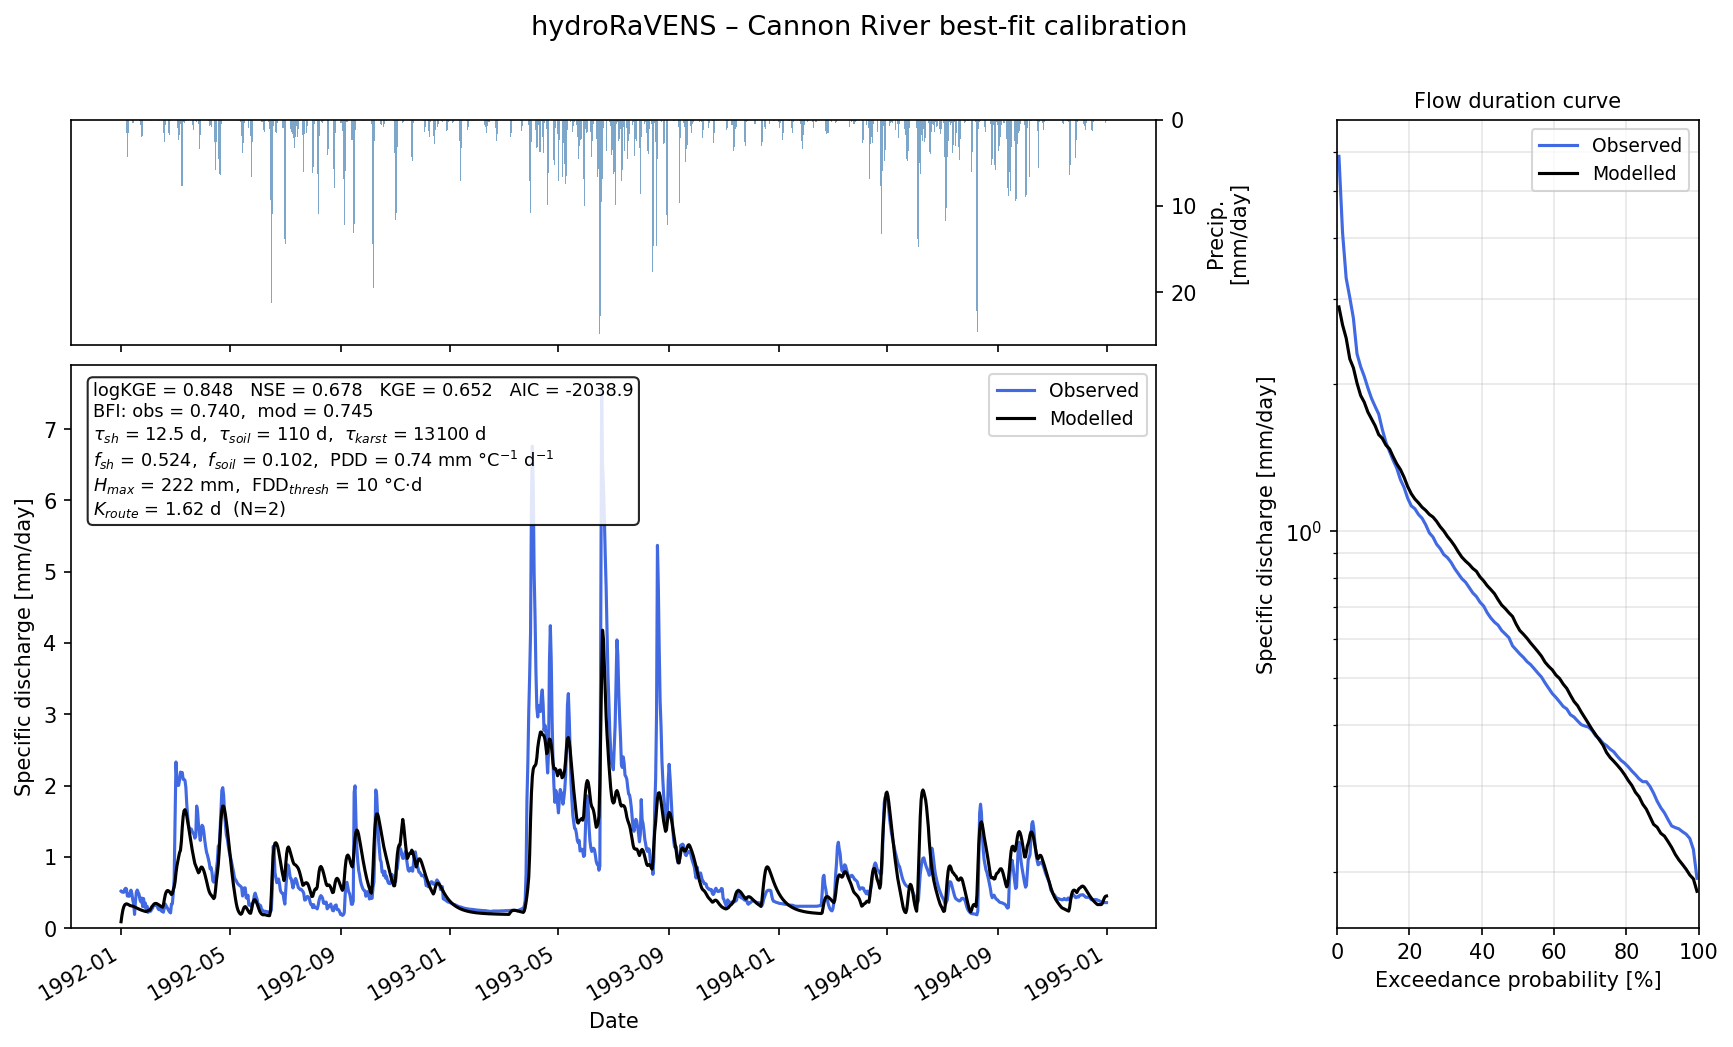
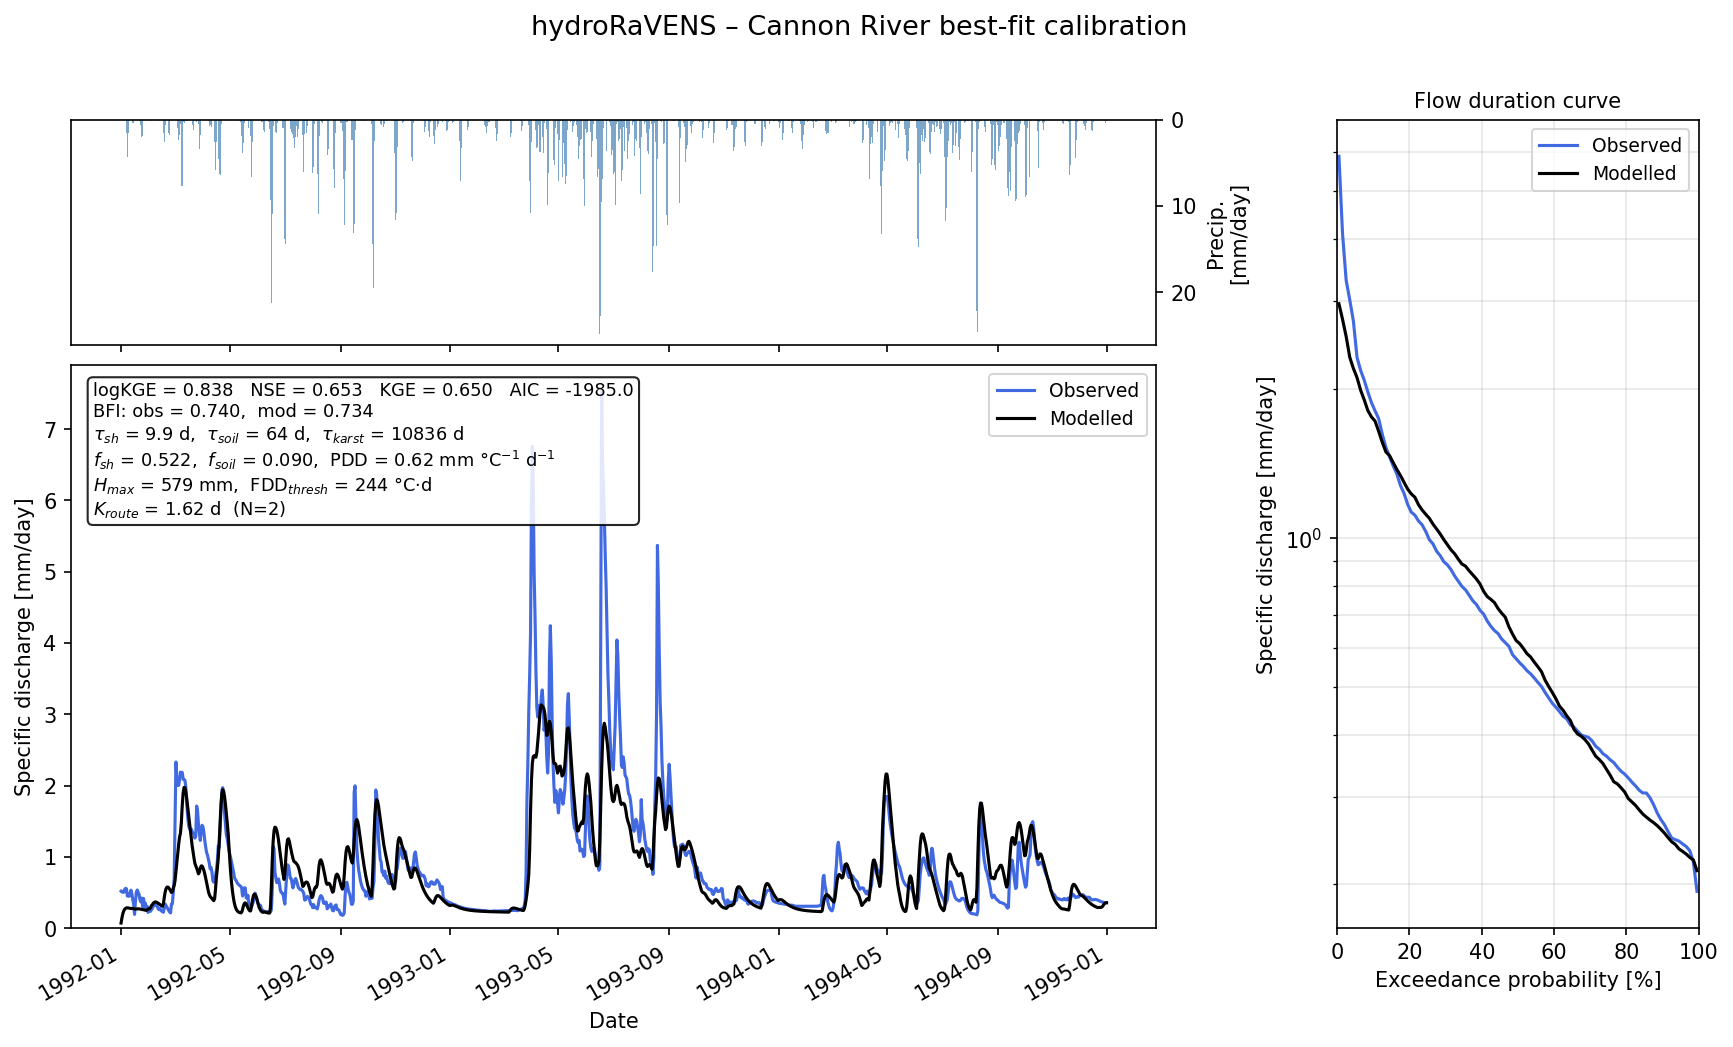
Fix stale KGE references after switch to logKGE metric
Update dakota.in comment and rename driver.py local variable neg_kge →
neg_score to reflect that the objective is now 1 - logKGE. The Dakota
response descriptor 'neg_kge' is unchanged to preserve .dat compatibility.
Also update best_fit.png from latest run.

diff --git a/cannon_river/driver.py b/cannon_river/driver.py
@@ -41,10 +41,10 @@ try:
         spin_up_cycles = SPIN_UP_CYCLES,
         metric         = METRIC,
     )
-    neg_kge = 1.0 - result.score if np.isfinite(result.score) else PENALTY
+    neg_score = 1.0 - result.score if np.isfinite(result.score) else PENALTY
 
 except Exception:
-    neg_kge = PENALTY
+    neg_score = PENALTY
 
-results['neg_kge'].function = neg_kge
+results['neg_kge'].function = neg_score
 results.write()
